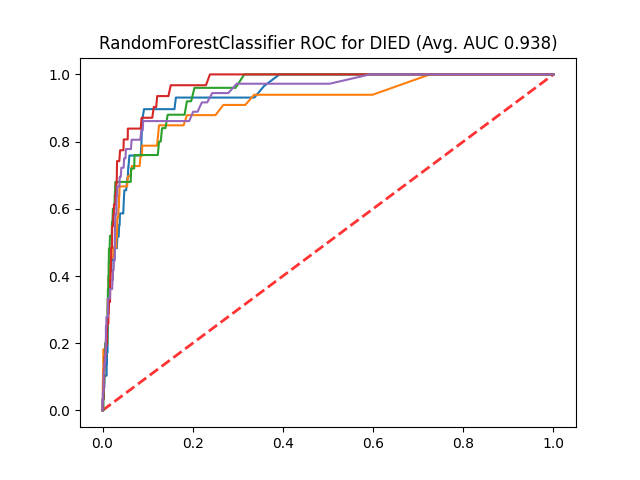
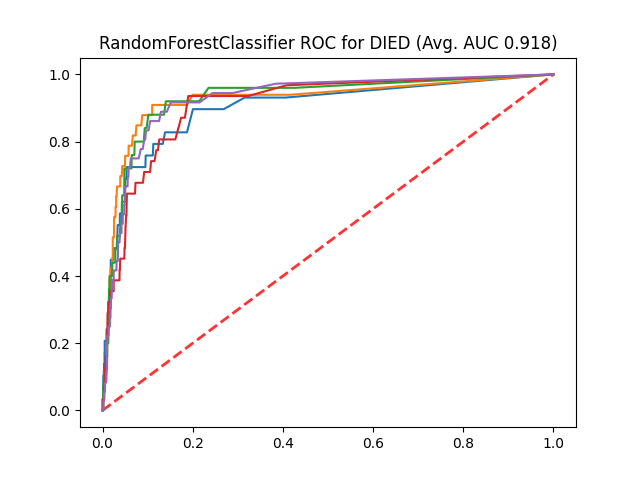
Merging in Table2 code from @raceee (#8)
* gitignore untangle

* pickled cv results

* killed commit

* table 2 generated

* style on table error

* refactor requirements add

* table edits

* completes #3

* getters for CV result

* avg metrics

Changed region(s): [[0.1562, 0.125, 0.8438, 0.8438], [0.8125, 0.0625, 0.8438, 0.0938]]

diff --git a/table2.py b/table2.py
@@ -1,0 +1,32 @@
+import pickle
+import docx
+  
+doc = docx.Document()
+doc.add_heading('Table 2', 0)
+table = doc.add_table(rows=1 , cols=6)
+
+row = table.rows[0].cells
+row[0].text = 'Algo Name'
+row[1].text = "Task"
+row[2].text = 'Accuracy'
+row[3].text = 'Specificity'
+row[4].text = 'Sensitivity'
+row[5].text = 'AUC'
+
+with open('test_results.pkl', 'rb') as f:
+    while True:
+        try:
+            a = pickle.load(f)
+            tar_ = a.__dict__["prediction_target"]
+            keys_ = a.__dict__['folds'][0].__dict__ 
+            row = table.add_row().cells
+            row[0].text = a.__dict__['folds'][0].__dict__["trained_classifier"].__class__.__name__
+            row[1].text = tar_
+            row[2].text = str("{:.2f}".format(a.acc_avg())) # accuracy
+            row[3].text = str("{:.2f}".format(a.specificity_avg())) # specificity
+            row[4].text = str("{:.2f}".format(a.sensitivity_avg())) # sensitivity
+            row[5].text = str("{:.2f}".format(a.auc_avg())) # auc
+        except EOFError:
+                break 
+table.style = 'Medium Grid 3 Accent 1'
+doc.save("table2.docx")

diff --git a/modeling/util.py b/modeling/util.py
@@ -17,6 +17,15 @@ class SingleFoldResult:
 
     def get_auc(self) -> float:
         return auc(self.fpr, self.tpr)
+    
+    def get_acc(self) -> float:
+        return self.accuracy
+    
+    def get_specificity(self) -> float:
+        return self.specificity
+    
+    def get_sensitivity(self) -> float:
+        return self.sensitivity
 
 
 @dataclass
@@ -42,6 +51,15 @@ class CvResult:
 
     def auc_avg(self) -> float:
         return np.array([f.get_auc() for f in self.folds]).mean()
+
+    def acc_avg(self) -> float:
+        return np.array([f.get_acc() for f in self.folds]).mean()
+    
+    def sensitivity_avg(self) -> float:
+        return np.array([f.get_sensitivity() for f in self.folds]).mean()
+
+    def specificity_avg(self) -> float:
+        return np.array([f.get_specificity() for f in self.folds]).mean()
 
     def get_clf_name(self) -> str:
         return self.folds[0].trained_classifier.__class__.__name__

diff --git a/modelingMain.py b/modelingMain.py
@@ -5,9 +5,12 @@ from sklearn.ensemble import RandomForestClassifier
 from sklearn.linear_model import LogisticRegression
 from sklearn.model_selection import KFold
 import modeling
+import pickle
+
 
 if __name__ == '__main__':
     df = pd.read_csv(f"{util.SETTINGS['cache_path']}/preprocessed.csv")
+    results_pickle = open('test_results.pkl', 'wb')
 
     models = {
         'DT': tree.DecisionTreeClassifier(min_samples_leaf=100),
@@ -24,3 +27,6 @@ if __name__ == '__main__':
             print(
                 f'\tAvg AUC for {cv_result.get_clf_name()} {cv_result.prediction_target}-classifier: {cv_result.auc_avg()}')
             cv_result.save_rocs(util.results_path)
+            pickle.dump(cv_result, results_pickle)
+            print("cv pickled")
+    results_pickle.close()
